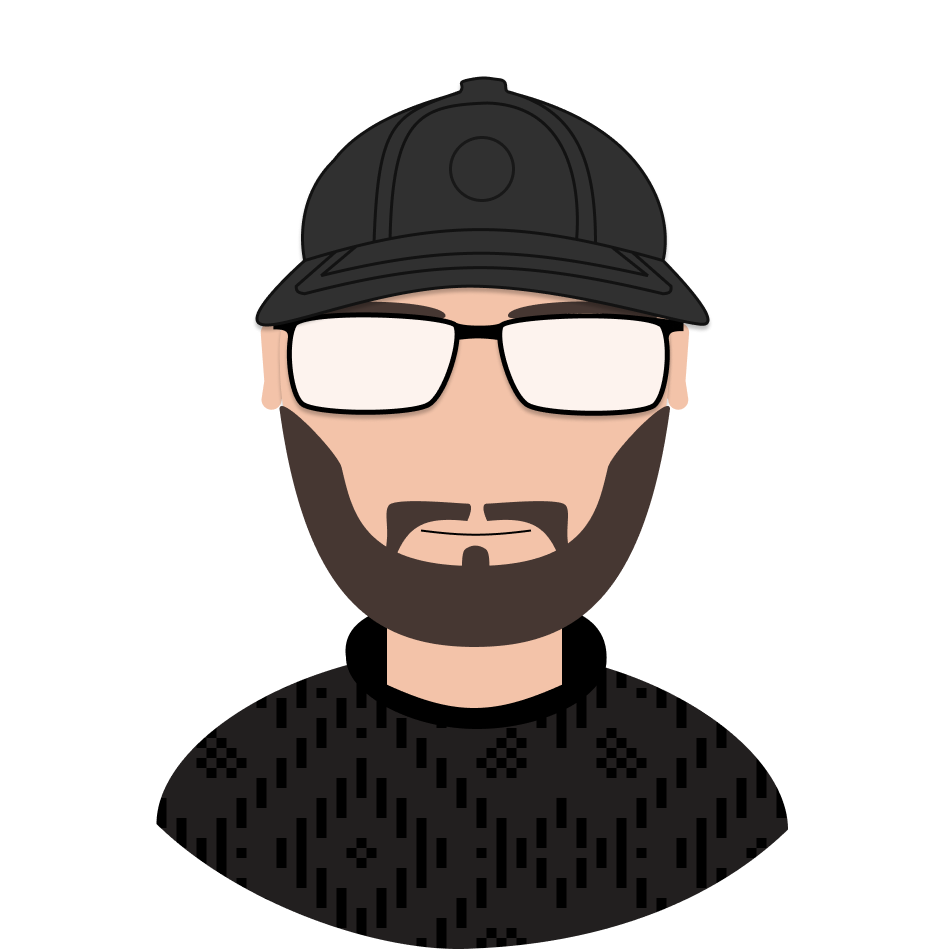
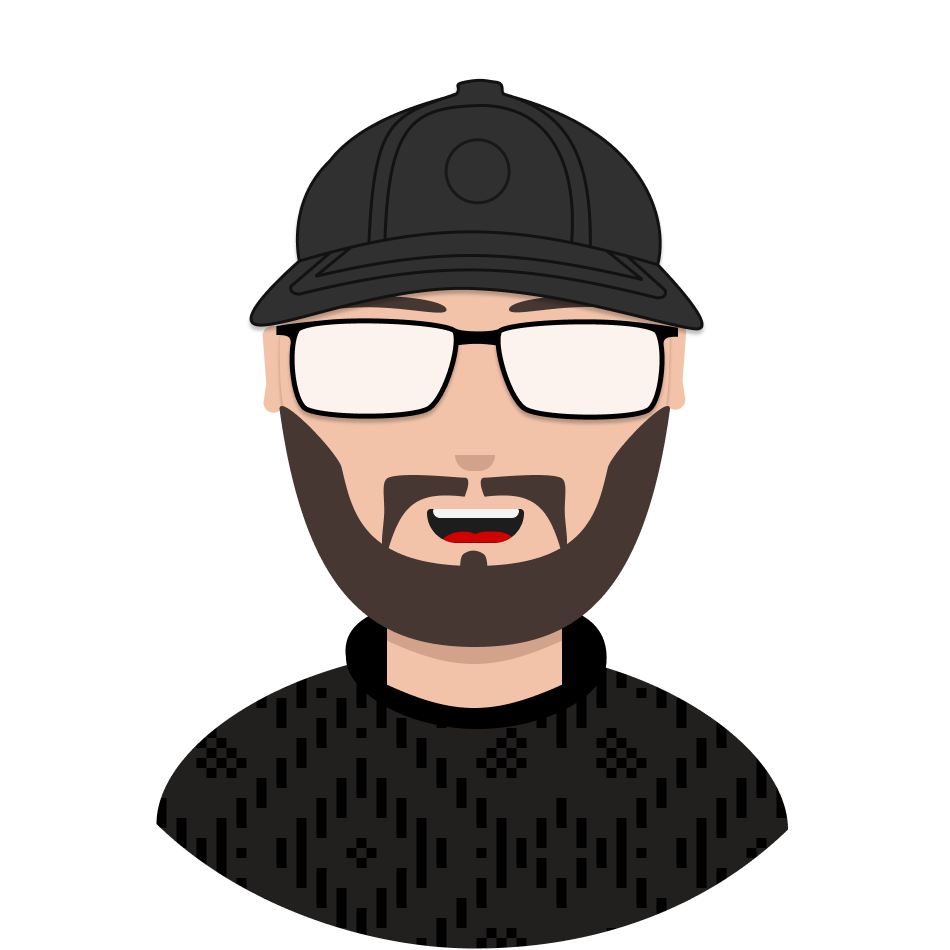
update social links and use new illustrations

diff --git a/src/containers/pages/AboutPage/index.tsx b/src/containers/pages/AboutPage/index.tsx
@@ -1,12 +1,11 @@
-import React, { useState } from 'react'
+import React from 'react'
 import { createUseStyles } from 'react-jss'
 import Page from 'containers/pages/Page'
 import SkillBar from 'components/displays/SkillBar'
 import { SectionId, ThemeColor, Typography } from 'utils/constants'
 import { skills } from 'utils/skills'
 import { ReactComponent as QuoteIcon } from './assets/quote-left-svgrepo-com.svg'
-import HeadSketchImage from './assets/head.png'
-import HeadLaughSketchImage from './assets/head2.png'
+import PersonalImage from './assets/christoph-haider.jpg'
 
 // This is a helper object before intl is in place
 const pageText = {
@@ -61,7 +60,7 @@ const useStyles = createUseStyles({
     fontWeight: '600',
     margin: '1rem 0',
   },
-  headSvg: {
+  personalImage: {
     width: '100%',
     maxWidth: '12rem',
     height: 'auto',
@@ -125,7 +124,6 @@ const useStyles = createUseStyles({
  */
 const WorkAndExperiencePage = () => {
   const classes = useStyles()
-  const [isHovered, setIsHovered] = useState(false)
   return (
     <Page id={SectionId.SKILLS_AND_EXPERIENCE} isFullHeight={true}>
       <div className={classes.container}>
@@ -133,10 +131,8 @@ const WorkAndExperiencePage = () => {
         <div className={classes.contentContainer}>
           <div className={classes.descriptionContainer}>
             <img
-              onMouseEnter={() => setIsHovered(true)}
-              onMouseLeave={() => setIsHovered(false)}
-              className={classes.headSvg}
-              src={isHovered ? HeadLaughSketchImage : HeadSketchImage}
+              className={classes.personalImage}
+              src={PersonalImage}
               alt="head sketch"
             />
             <div className={classes.descriptionTitle}>

diff --git a/src/components/displays/Socials/index.tsx b/src/components/displays/Socials/index.tsx
@@ -1,5 +1,5 @@
 import { createUseStyles } from 'react-jss'
-import { ThemeColor } from 'utils/constants'
+import { SectionId, ThemeColor, SocialLinks } from 'utils/constants'
 import { ReactComponent as FacebookSvg } from './assets/facebook.svg'
 import { ReactComponent as GithubSvg } from './assets/github.svg'
 import { ReactComponent as LinkedinSvg } from './assets/linkedin.svg'
@@ -31,12 +31,11 @@ const useStyles = createUseStyles({
 
 const Socials = () => {
   const classes = useStyles()
-  const url = 'https://www.google.com'
   return (
     <div className={classes.socialsContainer}>
       <a
         className={classes.link}
-        href="https://github.com/haidercharly"
+        href={SocialLinks.GITHUB}
         rel="noreferrer"
         target="_blank"
       >
@@ -44,16 +43,16 @@ const Socials = () => {
       </a>
       <a
         className={classes.link}
-        href="https://www.facebook.com/christoph.haider2"
+        href={SocialLinks.FACEBOOK}
         rel="noreferrer"
         target="_blank"
       >
         <FacebookSvg className={classes.socialIcon} />
       </a>
-      <a className={classes.link} href={url} rel="noreferrer" target="_blank">
+      <a className={classes.link} href={SocialLinks.LINKEDIN} rel="noreferrer" target="_blank">
         <LinkedinSvg className={classes.socialIcon} />
       </a>
-      <a className={classes.link} href={url} rel="noreferrer" target="_blank">
+      <a className={classes.link} href={`#${SectionId.CONTACT}`}>
         <MailSvg className={classes.socialIcon} />
       </a>
     </div>

diff --git a/src/containers/pages/NewLandingPage/index.tsx b/src/containers/pages/NewLandingPage/index.tsx
@@ -29,15 +29,15 @@ const useStyles = createUseStyles({
     alignItems: 'center',
     flexDirection: 'column',
     '@media (min-width: 769px)': {
-      backgroundColor: '#fff',
+      backgroundColor: '#F5F5F5',
       color: '#000',
       transform: 'rotate(-5deg)',
       position: 'relative',
       borderRadius: '2px',
       width: '34.375rem',
       height: '22.25rem',
-      border: '3px solid #27B8B3',
-      boxShadow: '1px 1px 14px 2px #27B8B3',
+      border: `3px solid ${ThemeColor.primaryMain}`,
+      boxShadow: `1px 1px 8px 2px ${ThemeColor.primaryMain}`,
     },
   },
   page: {

diff --git a/src/utils/constants.ts b/src/utils/constants.ts
@@ -18,3 +18,9 @@ export const Typography = {
   fontSizeTitle: '1.5rem',
   fontSizeHeadline: '2rem',
 }
+
+export const SocialLinks = {
+  GITHUB: 'https://github.com/haidercharly',
+  FACEBOOK: 'https://www.facebook.com/christoph.haider2',
+  LINKEDIN: 'https://www.linkedin.com/in/christoph-charly-haider-a6935a251',
+}

diff --git a/src/index.css b/src/index.css
@@ -1,4 +1,5 @@
 @import url('https://fonts.googleapis.com/css?family=Raleway');
+@import url('https://fonts.googleapis.com/css?family=Caveat');
 
 html {
   scroll-behavior: smooth;
